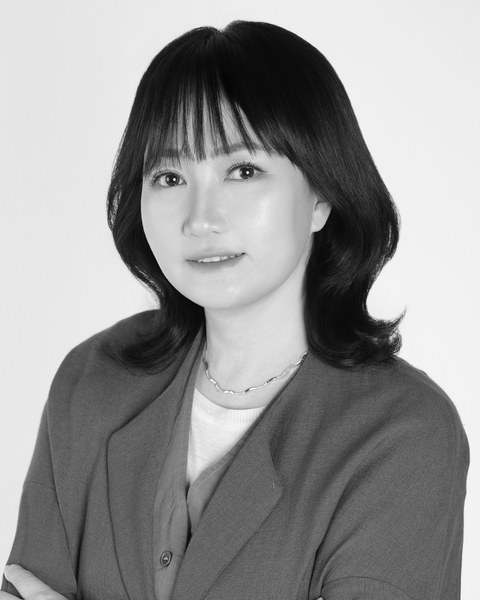
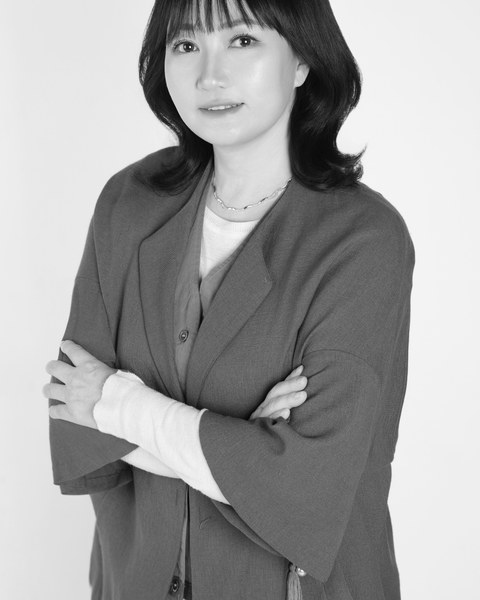
Revert 김진우 to the consistent half-body crop
Was still on the tight bust-only crop from a few rounds back, making
it (and neighboring cards) look inconsistently close-up next to the
rest of the roster. Applied the same moderate-tighten treatment used
for the other half-body portraits.

diff --git a/process-teachers.js b/process-teachers.js
@@ -10,7 +10,7 @@ const OUT_W = 480, OUT_H = 600; // 4:5 portrait, consistent across all cards
 // the auto-fit step below only needs to make small adjustments.
 const photos = [
   { file: '디쌤 원장 프로필.jpg', out: 'teacher-disaem.jpg', top: 0.07, bottom: 0.88, left: 0.1635, right: 0.8115, normalize: true },
-  { file: '김진우 프로필.jpg', out: 'teacher-kimjinwoo.jpg', top: 0.02, bottom: 0.57, left: 0.23, right: 0.78 },
+  { file: '김진우 프로필.jpg', out: 'teacher-kimjinwoo.jpg', top: 0.128, bottom: 0.85, left: 0.144, right: 0.866 },
   { file: '김금단 프로필.png', out: 'teacher-kimgeumdan.jpg', top: 0.235, bottom: 0.74, left: 0.212, right: 0.778 },
   { file: '배경호 프로필.jpg', out: 'teacher-baekyungho.jpg', top: 0.126, bottom: 0.87, left: 0.163, right: 0.867 },
   { file: '신병철프로필.png', out: 'teacher-shinbyungchul.jpg', top: 0.122, bottom: 0.804, left: 0.107, right: 0.873 },

diff --git a/index.html b/index.html
@@ -199,8 +199,8 @@
           <h3>디쌤</h3>
           <p class="tcard-role">원장 · 영어</p>
         </div>
-        <div class="carousel-slide tcard lightbox-trigger" data-name="김진우" data-role="부원장 · 국어" data-photo="assets/teacher-kimjinwoo.jpg?v=6">
-          <div class="tcard-photo-wrap"><img class="tcard-photo" src="assets/teacher-kimjinwoo.jpg?v=6" alt="김진우"></div>
+        <div class="carousel-slide tcard lightbox-trigger" data-name="김진우" data-role="부원장 · 국어" data-photo="assets/teacher-kimjinwoo.jpg?v=7">
+          <div class="tcard-photo-wrap"><img class="tcard-photo" src="assets/teacher-kimjinwoo.jpg?v=7" alt="김진우"></div>
           <h3>김진우</h3>
           <p class="tcard-role">부원장 · 국어</p>
         </div>
